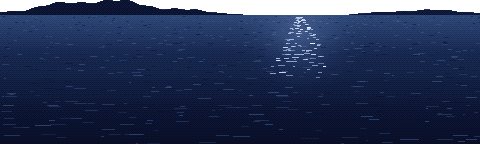
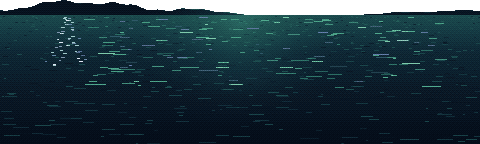
The northern lights over the sea crossing
- New background effect 'aurora': curtains of green light rippling across the
  sky, teal and violet as they rise, shimmering with rays; with flip, a fainter
  copy hangs down from the horizon as its reflection on the water
- The smuggler's boat repainted for it: a clear cold night, a small moon off
  to the side, green glowing along the horizon and lying in streaks on the
  swell; the aurora and its reflection are the scene's effects, so the
  sea-crossing cutscene shows them too

Claude-Session: https://claude.ai/code/session_01ArXuBwaG3Lco7dyqGyZYkQ

diff --git a/tools/paint/scenes-outdoor.js b/tools/paint/scenes-outdoor.js
@@ -110,33 +110,40 @@ SCENES.road_rain = (c, L) => roadScene(c, L, 'rain');
 // ---------------------------------------------------------------- a smuggler's boat at night, seen from its own deck
 SCENES.smuggler_boat = (c, L) => {
   const r = rng(21);
-  vgrad(c, 0, 0, W, 142, [[0, '#060b22'], [0.45, '#13224c'], [1, '#3a5687']]);
-  stars(c, r, 180, 0, 0, W, 125);
-  moon(c, 300, 56, 16, { seed: 4 });
-  const cl = L('clouds', { depth: 0.04, anim: { type: 'drift', t: 240 } });
+  // a clear, cold night far to the north-east, the sky full of the northern lights (the aurora
+  // itself, rippling, is the scene's effect): deep blue, a green glow along the horizon
+  vgrad(c, 0, 0, W, 142, [[0, '#030814'], [0.4, '#081a2e'], [0.75, '#0f3040'], [1, '#1e5250']]);
+  glow(c, 240, 150, 260, 'rgba(80,220,160,0.18)');
+  stars(c, r, 220, 0, 0, W, 130);
+  moon(c, 66, 36, 9, { seed: 4 });
+  const cl = L('clouds', { depth: 0.04, anim: { type: 'drift', t: 300 } });
   wrapped(cl, 8, (cc, rr) => {
-    cloudBand(cc, rr, 200, 78, 220, 8, { body: '#16244f', rim: '#8fa8dc', shadow: '#101a3c', hi: '#cfe0ff', lightFromBelow: false });
-    cloudBand(cc, rr, -10, 40, 170, 8, { body: '#121f46', rim: '#5d78b0', shadow: '#0d1636', hi: '#a9bff0', lightFromBelow: false });
-    cloudBand(cc, rr, 360, 30, 140, 6, { body: '#121f46', rim: '#6f8ac2', shadow: '#0d1636', hi: '#b9cdf5', lightFromBelow: false });
+    cloudBand(cc, rr, 40, 118, 170, 4, { body: '#0c1e2c', rim: '#4a9a88', shadow: '#08141e', hi: '#8ad8b8', lightFromBelow: false });
+    cloudBand(cc, rr, 330, 124, 150, 3, { body: '#0c1e2c', rim: '#3e8a7c', shadow: '#08141e', hi: '#7ac8a8', lightFromBelow: false });
   });
   const sea = L('sea', { depth: 0.1 });
-  hill(sea, r, -40, 250, 142, 18, '#0d1632');
-  hill(sea, r, 330, 540, 142, 7, '#0f1a38');
-  vgrad(sea, 0, 141, W, H - 141, [[0, '#2b4878'], [0.3, '#16284f'], [1, '#060d22']]);
+  hill(sea, r, -40, 250, 142, 18, '#06121c');
+  hill(sea, r, 330, 540, 142, 7, '#081620');
+  vgrad(sea, 0, 141, W, H - 141, [[0, '#1c4a4c'], [0.3, '#0e2632'], [1, '#040a14']]);
   for (let i = 0; i < 700; i++) {
     const y = 142 + Math.pow(r(), 1.5) * 128;
     sea.globalAlpha = r.r(0.2, 0.6);
-    rect(sea, r() * W, y, 2 + (y - 140) * 0.14 * r(), 1, r() < 0.55 ? '#3f5f96' : '#081330');
+    rect(sea, r() * W, y, 2 + (y - 140) * 0.14 * r(), 1, r() < 0.55 ? '#2e6a64' : '#06101c');
   }
   sea.globalAlpha = 1;
-  for (let i = 0; i < 110; i++) {
-    const y = 143 + Math.pow(r(), 1.3) * 60;
-    const spread = 4 + (y - 142) * 0.55;
+  // the aurora's green lying in long streaks on the swell, and the small moon's path
+  for (let i = 0; i < 160; i++) {
+    const y = 143 + Math.pow(r(), 1.2) * 70;
+    sea.globalAlpha = r.r(0.3, 0.9);
+    rect(sea, r.r(80, 440), y, r.r(3, 10 + (y - 142) * 0.2), 1, r.pick(['#6ae0a8', '#4ac098', '#9af0c8', '#5a8ae0']));
+  }
+  for (let i = 0; i < 50; i++) {
+    const y = 143 + Math.pow(r(), 1.3) * 50, spread = 3 + (y - 142) * 0.4;
     sea.globalAlpha = r.r(0.4, 1);
-    rect(sea, 300 + r.r(-1, 1) * spread, y, r.r(2, 3 + (y - 142) * 0.1), 1, r() < 0.3 ? '#ffffff' : '#bcd0f4');
+    rect(sea, 66 + r.r(-1, 1) * spread, y, r.r(2, 4), 1, r() < 0.3 ? '#ffffff' : '#bcd0f4');
   }
   sea.globalAlpha = 1;
-  glow(sea, 300, 160, 70, 'rgba(150,180,240,0.25)');
+  glow(sea, 240, 150, 110, 'rgba(90,230,170,0.2)');
   // the deck rises and falls on the swell
   const d = L('deck', { depth: 0.8, anim: { type: 'bob', a: 1.6, r: 0.55, t: 7, oy: 1 } });
   const bow = [318, 196];

diff --git a/js/scenefx.js b/js/scenefx.js
@@ -156,6 +156,46 @@
   }
 
   // ---------------------------------------------------------------- things that live in one region
+  /**
+   * The northern lights: curtains of light rippling slowly across the sky, bright green at their
+   * feet, teal and violet as they rise, shimmering with rays. `aurora=top,height[,strength,flip]`:
+   * with flip, the curtains hang downward from `top` instead, fainter: their reflection in water.
+   */
+  class Aurora {
+    constructor(nums) {
+      const [top = 0.05, hh = 0.4, strength = 1, flip = 0] = nums;
+      this.o = { top, hh, strength, flip: !!flip };
+      this.bands = [0, 1, 2].map((i) => ({ at: 0.55 + i * 0.18, height: 0.55 + i * 0.12, alpha: [0.55, 0.42, 0.3][i], ph: Math.random() * TAU, k: 0.012 + i * 0.006, w: 0.12 + i * 0.05 }));
+      this.strip = document.createElement('canvas');
+      this.strip.width = 1; this.strip.height = 64;
+      const g = this.strip.getContext('2d'), gr = g.createLinearGradient(0, 64, 0, 0);
+      gr.addColorStop(0, 'rgba(150,255,190,1)'); gr.addColorStop(0.12, 'rgba(90,240,160,0.95)'); gr.addColorStop(0.4, 'rgba(60,200,170,0.6)');
+      gr.addColorStop(0.72, 'rgba(90,110,240,0.3)'); gr.addColorStop(1, 'rgba(170,80,220,0)');
+      g.fillStyle = gr; g.fillRect(0, 0, 1, 64);
+    }
+    resize(W, H) { this.W = W; this.H = H; }
+    step() {}
+    draw(c, t) {
+      const { top, hh, strength, flip } = this.o, W = this.W, H = this.H;
+      c.globalCompositeOperation = 'lighter';
+      for (const b of this.bands) {
+        for (let x = 0; x < W; x += 1) {
+          const wave = Math.sin(x * b.k + t * b.w + b.ph) * H * 0.05 + Math.sin(x * b.k * 2.7 - t * b.w * 1.6 + b.ph * 2) * H * 0.02;
+          const ch = H * hh * b.height * (0.55 + 0.45 * Math.sin(x * b.k * 1.9 + t * b.w * 0.7 + b.ph * 3));
+          const fold = Math.pow(0.5 + 0.5 * Math.sin(x * b.k * 3.3 + t * 0.35 + b.ph), 1.5);
+          const rays = 0.65 + 0.35 * Math.sin(x * 0.9 + t * 2.2 + b.ph) * Math.sin(x * 0.37 - t * 1.3);
+          const a = strength * b.alpha * fold * rays * (flip ? 0.4 : 1);
+          if (a < 0.02) continue;
+          c.globalAlpha = Math.min(1, a);
+          if (!flip) { const base = H * (top + hh * b.at) + wave; c.drawImage(this.strip, x, base - ch, 1, ch); }
+          else { const base = H * top - wave * 0.3; c.save(); c.translate(0, base * 2); c.scale(1, -1); c.drawImage(this.strip, x, base - ch * 0.6, 1, ch * 0.6); c.restore(); }
+        }
+      }
+      c.globalAlpha = 1;
+      c.globalCompositeOperation = 'source-over';
+    }
+  }
+
   class Region {
     constructor(nums, fallbackN) {
       const [x = 0, y = 0, w = 1, hh = 1, n = fallbackN] = nums;
@@ -1302,6 +1342,7 @@
           case 'herd': this.systems.push(new Herd(n)); break;
           case 'fish': this.systems.push(new Fish(n)); break;
           case 'flock': this.systems.push(new Flock(n)); break;
+          case 'aurora': this.systems.push(new Aurora(n)); break;
           case 'rider': this.systems.push(new Rider(n)); break;
           case 'glow': case 'flame': lights.push(this.light(s)); break;
           case 'rays': lights.push(this.rays(s)); break;

diff --git a/story/script.js b/story/script.js
@@ -129,7 +129,7 @@ bgfx cemetery_night glow=0.75,0.185,0.05,#cfe0ff flame=0.817,0.422,0.02 flame=0.
 bgfx road_east glow=0.6625,0.544,0.07,#ffd08a rays=0.6625,0.54,0.8,0.8,#ffd49a birds=5,0.08,0.4 motes=0.4,0.45,0.5,0.3,30,#ffe0a0
 bgfx road_winter snow=1.2 glow=0.625,0.407,0.05,#fff6e8 mist=0.5,0.12,0.3,#ffffff
 bgfx road_rain rain=1.3 mist=0.52,0.14,0.3,#9aa4b8
-bgfx smuggler_boat glow=0.625,0.207,0.05,#cfe0ff glints=0.5,0.53,0.25,0.25,30 stars=0,0,1,0.45,30 mist=0.48,0.12,0.25
+bgfx smuggler_boat aurora=0.02,0.42,1 aurora=0.527,0.2,0.8,1 glow=0.1375,0.133,0.035,#cfe0ff glints=0.15,0.54,0.7,0.2,34,#b8ffd8 stars=0,0,1,0.45,30 mist=0.5,0.1,0.2,#8ad8c0
 bgfx china_dock glow=0.3125,0.526,0.09,#ffc080 flame=0.252,0.593,0.03,#ff7050 flame=0.877,0.593,0.03,#ff7050 glints=0,0.56,1,0.25,26 birds=3,0.08,0.3
 bgfx japan_coast glow=0.133,0.141,0.03,#cfe0ff glow=0.85,0.55,0.25,#ffb080 glints=0.3,0.56,0.7,0.2,26 flame=0.373,0.633,0.02 birds=4,0.1,0.35 mist=0.42,0.12,0.3,#ffd0d0 stars=0,0,1,0.25,14
 bgfx japan_path rays=0.5,0.37,1.2,0.6,#fff0b0 motes=0.3,0.2,0.4,0.6,40,#fff0c0 fireflies=0,0.65,0.35,0.3,8 fireflies=0.65,0.65,0.35,0.3,8 foliage=0.6 glow=0.5125,0.14,0.07,#e8f0ff flame=0.25,0.687,0.02,#ffd28a flame=0.754,0.687,0.02,#ffd28a flame=0.329,0.678,0.012,#ffd28a

diff --git a/js/parser.js b/js/parser.js
@@ -11,7 +11,7 @@
   const ASSIGN_RE = /^([A-Za-z_]\w*(?:\.[A-Za-z_]\w*)?)\s*(\+=|-=|\*=|\/=|=)\s*(.+)$/;
   const IDENT_RE = /^[A-Za-z_]\w*$/;
   const BG_FX = ['petals', 'leaves', 'foliage', 'snow', 'ash', 'rain', 'fireflies', 'motes', 'glints', 'stars', 'smoke', 'steam', 'embers', 'birds', 'flutter', 'glow', 'flame', 'rays', 'mist', 'rock',
-    'grass', 'gunfire', 'cannon', 'boom', 'shells', 'blasts', 'rockets', 'army', 'airship', 'balloon', 'walkers', 'ripples', 'shade', 'lightning', 'splashes', 'herd', 'rider', 'fish', 'flock'];
+    'grass', 'gunfire', 'cannon', 'boom', 'shells', 'blasts', 'rockets', 'army', 'airship', 'balloon', 'walkers', 'ripples', 'shade', 'lightning', 'splashes', 'herd', 'rider', 'fish', 'flock', 'aurora'];
   VN.BG_FX = BG_FX;
 
   /** Split a line into bare words and "quoted strings" (with \" and \n escapes). */

diff --git a/story/scenery.js b/story/scenery.js
@@ -3622,13 +3622,13 @@ window.VN_SCENERY = {
    {
     "id": "clouds",
     "x": 0,
-    "y": 24,
+    "y": 114,
     "w": 480,
-    "h": 59,
+    "h": 12,
     "depth": 0.04,
     "anim": {
      "type": "drift",
-     "t": 240
+     "t": 300
     },
     "src": "assets/scenes/smuggler_boat/clouds.png"
    },

diff --git a/docs/SCRIPTING.md b/docs/SCRIPTING.md
@@ -631,6 +631,7 @@ lantern or the pond at any window shape; `#colour` is optional everywhere.
 | `rider` | y,x0,x1,seconds [, scale, delay] | Hervé at a gallop on a pale horse, from x0 to x1 |
 | `fish` | x,y,w,h [, rate] | fish leaping out of the water and back, with rings and drops |
 | `flock` | every [, y0, y1] | flocks of birds going over in loose Vs, every so many seconds |
+| `aurora` | top,height [, strength, flip] | the northern lights: curtains of green light rippling across the sky, violet at their tops, shimmering with rays; with `flip` they hang downward from `top`, fainter, as their reflection on water |
 | `army` | y,dir,speed,count,type [, scale, x0, x1, fire] | soldiers marching in ranks: type 0 the imperial army, 1 samurai with banners, 2 French infantry; `fire` makes the front rank let off volleys |
 | `airship` | y,dir,speed [, scale, x] | a steam airship crossing the sky (tricolour rudder, turning propeller, a trail of smoke), wrapping round |
 | `balloon` | x,y [, scale, tether, colours] | an observation balloon bobbing on its tether (to `tether`, a height); colours 0 red and cream, 1 blue and cream |

diff --git a/docs/ASSETS.md b/docs/ASSETS.md
@@ -104,6 +104,10 @@ merchants' stalls and townhouses under their paper lanterns and banners, a stage
 players, an archery butt, the walled samurai quarter and its cherry trees in pink and white, to
 Hara Kei's great gate. It is drawn by `tools/paint/scenes-japan.js`.
 
+The smuggler's boat (`smuggler_boat`), the crossing to Japan, is a clear, cold night at sea with
+the northern lights as its sky: the aurora itself is an effect (`aurora`), rippling above the deck
+and mirrored faintly in the swell, over a painted sky that glows green at the horizon.
+
 The eight walking areas (`camp`, `lavilledieu`, `steppe`, `village`, `aviary`, `ruins`, `crossing`, `cemetery`) are painted by
 `tools/paint-walks.js` from `tools/paint/walks.js`, with the same toolkit and style as the
 backgrounds but two to five screens wide. Each is saved as layers: the sky (one screen, it never
